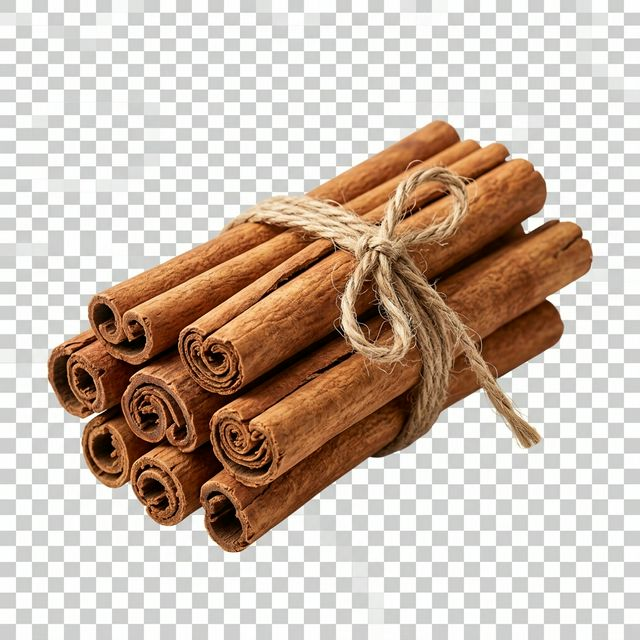
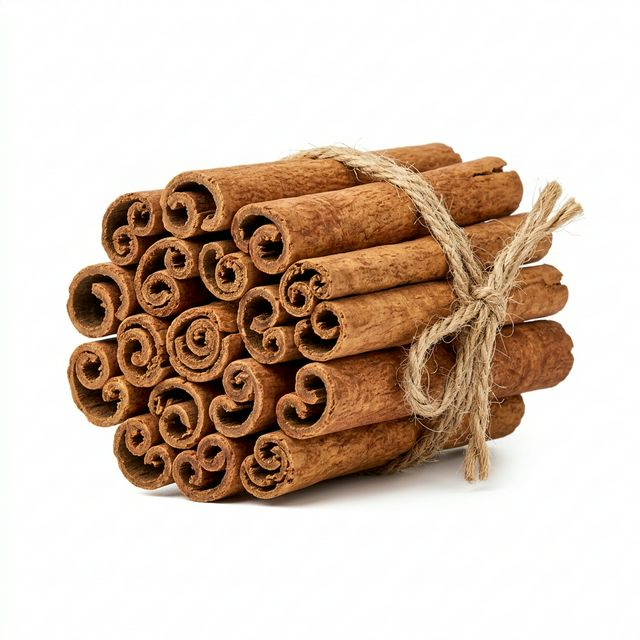
style: final hero background and blend mode fix for perfect cut-out look

diff --git a/src/App.jsx b/src/App.jsx
@@ -186,7 +186,7 @@ function Navbar({ cartCount, onOpenCart }) {
 
 function Hero({ onShopNow }) {
   return (
-    <section className="pt-40 pb-20 px-6 relative overflow-hidden">
+    <section id="home" className="pt-40 pb-20 px-6 relative overflow-hidden bg-white">
       {/* Background elements */}
       <div className="absolute top-0 right-0 w-[500px] h-[500px] bg-emerald-50/50 rounded-full blur-3xl -z-10 translate-x-1/2 -translate-y-1/2" />
       
@@ -227,7 +227,7 @@ function Hero({ onShopNow }) {
               <img 
                 src="/images/main image.png" 
                 alt="Premium Ceylon Cinnamon Heritage" 
-                className="w-full max-h-[500px] object-contain hover:scale-110 transition-transform duration-1000"
+                className="w-full max-h-[500px] object-contain hover:scale-110 transition-transform duration-1000 mix-blend-multiply"
               />
               <div className="absolute -bottom-8 -left-8 bg-white/90 backdrop-blur-md p-8 shadow-2xl rounded-3xl animate-fade-in-up border border-stone-50">
                 <div className="flex items-center gap-4">
